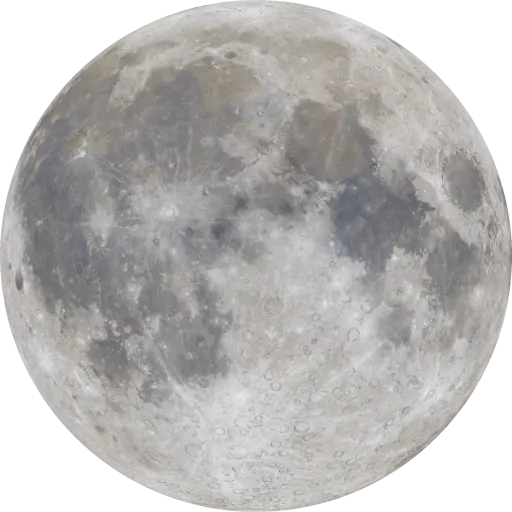
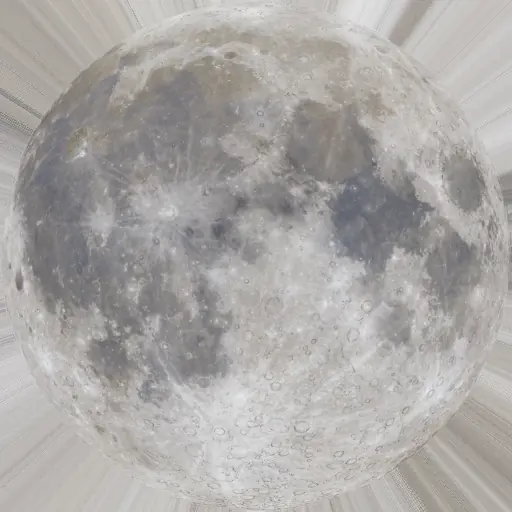
perf(shell): keep the page in two round trips on Lighthouse's mobile run
The first build of the time zone guess grew the page to 43.3 KB gzipped,
past the size Lighthouse's simulated TCP slow start fetches in two round
trips (about 43.8 KB on the wire); the third cost about 200 ms of first
paint and two points on mobile. Three savings with nothing visible bring
it to 40.9 KB:

- The flat Moon's photograph is re-encoded from the source maps at WebP's
  most thorough setting and without its alpha channel; MoonDisc cuts the
  disc's edge with a clip path instead. Identical to the eye: under one
  level in 255 on average.
- index.html's comments are stripped from the build.
- The time zone table keeps only the old names browsers report (19, the
  CLDR names Chrome and Safari use), not every backward link.

CI now holds the page under 41.4 KB gzipped.

diff --git a/src/shell/zones.js b/src/shell/zones.js
@@ -1,4 +1,4 @@
 // Generated by scripts/zones/build.mjs from the IANA Time Zone Database, release
 // 2026e (zone.tab and backward). Don't edit; the format is described there and
 // read by src/shell/guessPlace.js.
-export const ZONES = "2166136263#CD=DR Congo;CG=Congo;GS=South Georgia;HK=Hong Kong;MM=Myanmar;MO=Macao;PS=Palestine#AI8gJ0AR;44NG8zCA;3PF1SKTGLomé;0I~2wRio Branco;9X5nH3CL;9LGPOTCV;i1~1xKanton;OS~15Brisbane;BmHiBWMXMazatlán;6jMVWSBY;1y~35Broken Hill;6RGuG8JM;DTH5FQKY;4dDUN4BR;OaCCG6PE;9hFPQ4SL;1I~5KKyiv;LJJDUCLY;7cE-JWSR;AlHngGBD;1NINg9BT;6IKxU5SM;AcIPfTNP;Gy~0V;2UErk5BN;2zLOCIUS;3oErJzGF;4nFlIXTT;6I~37Iqaluit;8NKxV0BA;0d~18Nuuk;7SKUWgTR;7k9UHiAR;4L9rB2CLEaster Island;3uIyl7CN;0qMPRAIE;5bJTcyAF;I3HP3TUS;2WCiUCAO;AXLXTVDEBüsingen;0U6yGtCL;30~0YShanghai;6G~4_;0_GihAMM;3IMOc4KZ;329uHyARTucumán;2xJ1BVMXCiudad Juárez;8XGzHDDO;9zJJXpSY;DpE7TBSTSão Tomé;0u~33;0FMqgeRU;4vCllmTL;20M7S7GB;KmG7IqBB;0qMgdcRU;4iI_XXPS;SKA0XEMZ;E0EmV2CF;5m~2jLongyearbyen;3SGHEWHN;28MGSvNL;82A97pPN;4qO56MCA;A_K0bGTM;4k~0rLondon;8dK7QjPT;1fK5EVUS;4bGwIHAI;5s9nq2AU;ItDLapSCMahé;9kQ4PDGL;FgO6K3GL;CKLagTMN;Qp5_J6FK;3RMDjtRU;2lApapRE;6vI6CvMX;0W~1pToronto;903jjPAQ;Gw~0hYangon;0K~58;3wMdVLRU;6eDiJZBRSantarém;U6~2AAdelaide;3vJhRJES;4f99HRAR;0BMgf5RU;4e~5-Pago Pago;9F7D0YNZ;3POl7FCA;3OBeJNBRCuiabá;1MGzHpPR;hhLTCEUS;N8C4ZCYT;MaH5sAUMWake Island;4cO6OkISReykjavík;75FxPiGW;47Q2HOGLPituffik;A499q_AULord Howe Island;BEL4cNKZ;6LBgWZZM;1kAuJcBR;0Y~3nMcMurdo;1rFzUVTDN’Djamena;5bF5SYBJ;7IGtIKBL;7cH_l7TW;5sLKZfRU;4wMOZ-RU;0b~6jKnox;8C9-WWZA;47LZirMN;0ZBIW_ZW;0uJfaAIR;H7KvFkCA;2-97mHAU;LJ~1ZLord Howe Island;1rDsKZBRBelém;4bLEUeHR;6GEvRWCI;UY~4wCórdoba;5rB7ZZMG;N0De1JKI;1lKHBkUS;5LAwb7MU;5gL4VLRS;HeLRaFKZ;K1P5OiGL;4c~10Ashgabat;37Bw1JWS;5oMMqxRU;LJ~3-;5AKwfqCNÜrümqi;0r6Md6TF;6HL3ICCA;6GGvPfMR;1BJyl-KR;Jy8dnoAU;1vD6iqID;UO~5tAsmara;K9KbZ8GE;CmLQWeMDChișinău;4a~25Ürümqi;1iBcXcMW;F2GlIUAG;DUKMZ5AM;04KreAKZ;0RKXczUZ;ARFuYuDJ;06GhIQMS;1D~6-Tijuana;ALEN3ZKI;1AFUFjPA;CM~5vSydney;gZ~2_;AD8tHnAR;GkK7ETUS;ILGDECSV;2mFUYBET;Bd60HKAR;5EMB0XUS;8P3fo0AQDumont d’Urville;GPLRCJUS;3OK7ErUS;K0CbrASB;RK8JtSNZ;2zEKjNMY;Q5MvfQRU;6N~2sHobart;E9Abs9NCNouméa;4tD0YHTZ;4jAPKsBRSão Paulo;1yQGUeSJ;0d3WbzAQ;108xHOAR;1o8dJMUY;IAKdU5IT;Z6GTIYDM;3j5bMRGS;3H~1mUlaanbaatar;FXKu9-US;0N7Np9AU;3jK0VrGR;D_DtXuKE;9QIiBqMX;4HCWHYBR;1hEHiNSG;BCJjRJGI;5sFDn9PW;BgMFiRRU;9VHYjtMOMacao;55KORZES;1p3IYKAQ;B_GGIcLC;2e9dHsAR;2wJqSdDZ;1-95oFAU;QLJIAdUS;8LO1HRCA;291qirAQ;0tC2M7BR;2uGEhrTH;A-JqTkTN;AeCyKcBRAraguaína;KXG4ZCYE;0yKqmlRU;0S3MeKAQ;ItGMl2PH;7JLIInCA;6HBVHVBO;HRKhFAUS;0WMh7aUS;2JLjSVFR;33G8IaVC;5CMSAPCA;IGF9edLK;C0InX1EG;1YCAhHCC;4PLxb4KZ;1RLiDqCA;LX~3SAtikokan;2gFmipVNHo Chi Minh City;7JKvTIMC;7nEPZESO;CiErX4SS;PMLcUhAT;ESF-HMCWCuraçao;7VMzbcRU;8KL7ESUS;1gK4EfUS;1IOCttRU;C3LHI0CA;JN~2EChișinău;5U~5KKyiv;0VGcIXGP;AkGNPQSN;28HhFGCU;6LClu8TV;0dKiV9ME;HFEoGZCOBogotá;1M1wsAAQ;8PGBomGU;C0Mo9MCA;3HKVEcUS;csITPkESCanary Islands;EcH_G3BS;Mp~2XAdak;7dLn8vCA;5hNZ71CA;3WF-EfNI;5C~74Faroe;0hFAqsFM;2yDnWrRW;5kAIHxAR;1YGnILKN;KS~0KThimphu;1QLl9xCA;1vLmRpJE;3I3yI7AQ;8zEkddMV;DACqMhBR;EfCc1OTK;0n~3yPohnpei;EBD1HDBREirunepé;8dHzcdPK;cUGBPYGM;6QM8ZKRU;0vGvIISXLower Prince’s Quarter;HwIdAoMX;2UGuiALA;BcAn0mTO;kONLUzSE;8sDHkoID;13GyH_VISt. Thomas;FfBbRFSH;9TKRGaUS;6R~0YShanghai;10G0RvBF;4_~1pToronto;2WMoY0RU;2bOtBjCA;4rF3QSLR;LRMZZiRU;7mPlDKCA;0N~4HMakassar;2aJ7I0BM;HxCZMZBRMaceió;5cCbp8PG;0REyS6GH;AA5Zq-AUMacquarie Island;2vNe4jUS;1cHZj-HK;5LAvpQAU;3x~7UBamako;2uKXVEAL;6b~33Catamarca;IdEvrcFM;5sDho7ID;8J~5PDarwin;0q~73Jerusalem;1VAm3ACK;5iAT73PFGambier Islands;FqI1anAE;8VK3EkUS;6tN06_US;BYHbfyIN;1vGMIbMQ;3NKeVUMK;5FI_XdPS;27MQfERU;DxE8TdGA;AhFdE_CR;27JqEuUS;3T9AI6ARCórdoba;51H6CfMX;4Q9zW_SZ;4w~6EChuuk;BO~2l;5LJaXMCY;35~5vSydney;2eM6JDCA;4lBFu0FJ;Hy~1pToronto;C5FZP_GN;0o~3NEdmonton;1xLqT6LU;8FBL4mPF;2bKIEgUS;6FICa2BH;96EItAKI;47~1yDenver;8J~4wCórdoba;1JLVV7HU;7kGzGrHT;2W~1mUlaanbaatar;5HK6cuTJ;5eO92IUS;2U~00;7PKdU5VA;5dLyWvUA;14~58Indianapolis;7bGMD_GT;2uJIZ4IQ;J9B61bNU;2SC7maAU;1HFjHhVE;Jv9TWRLS;JDFzIVGD;P9M4aAKZ;5k~5pMelbourne;B7~4oKolkata;I5FuiXKH;5mL1Z_KZ;1fEgTWGQ;EaE4jDID;AQLhZ4RU;Ca~5vSydney;O8AEWBBW;5OLcUpSK;IIOAoWRU;0_5WHTAR;6ZDbImBR;2QLyBoCA;5eGpEMBZ;7tDxE8ECGalápagos;9KJNXhLB;3EB_0cWF;Co~0MKathmandu;3RDYWkBI;LqNRTqNO;9K8AooAU;4MCxdSIO;F0FVsHMH;1wLpRlGG;10GTYDER;5U~6EChuuk;I_8npmAU;6aNtnKRU;9qJzO7PT;0MBJsSVU;0SLQoRRU;3wBr1TAS;CYCSifCX;XJKdESUS;2dJP9gUS;5IJhUPMT;E8JZXSCY;1DMPIiCA;ClCg6LPFMarquesas Islands;1qLSTdLI;1U~70Perth;0-HmbIOM;25LxBICA;KqCiI9BR;DoMFVQPL;2mCFYvKM;0wKjSNAD;9lFEpsFM;36MYRRIM;58E7XCUG;2lEWIfBR;8wIfZeKW;PSHNEaMXCancún;22L6XTUA;2KKOZxAZ;ChK0EaUS;08DkFgEC;4rKndoKG;6CL0WDRO;1bJfnzJP;78M-VvLV;GAIYBZMX;21~3UHo Chi Minh City;HgIKQ4EHLaayoune;BU~4ISt. Thomas;5xNmmPRU;0SLRJLPM;2nFCsuMH;1gOdq9RU;6nG1HCAW;HNLUTTCHZürich;34LHUPSI;79MUflRU;BQNN6JUS;7Q~0JDhaka;ErKAloKP;1K3WHVAQ;DQ~6-Tijuana;BQKXEcUS;2xNTVGAX;3_F-HTBQ;6lJAPVPT;09Eai1MY;F28sH5CL;BhMHUEDE;BlNUW2FI;ARNEZvRU;0nGBSTNE;2k~5KKyiv;4MNB78US;2_~7DWinnipeg;0PKHcaUZ;01A7J7PYAsunción;D0IU0QUMMidway Atoll;14LWJvCASt. John’s;1LJ99sMX;AONMW0EE;8C95kFAU;4tI5CTMX;HRGzI2VG;14J2XeIL;0hNmR4FO;2bDVM7BR;7vJ4XlJO;41~0YShanghai;imI1aBQA;AwNOpiRU;B3MdW5LT;AOF8J2GY;DwAYUpNA;6KLtCzCA;8HD6qSPG;IFCFWRCD;2CHKBiMXBahía de Banderas;1C2qSXAQ;5PGSowMP;7nJLQyMA;4sNuDlCA;18DPUXCG;JqEjTfCM;1xM0SpBE;FiDPUXCD;EmACHwAR;WbHME8MXMérida;H8~4m;8iLvUOCZ;2vKlVnBG;7MG3QuML;58D_sDNR;0CGWXDSD;3KMnU6DK;9z~2sHobart;Az~0bHonolulu;57HwZRSA;8eF5SgNG;1C9YsONF;7cGvIHMF;U5HRH1TC";
+export const ZONES = "2166136266#CD=DR Congo;CG=Congo;GS=South Georgia;HK=Hong Kong;MM=Myanmar;MO=Macao;PS=Palestine#AsJhRJES;6GGuiALA;FNKXVEAL;0dP5OiGL;JGM-VvLV;975_J6FK;L_DPUXCG;OxO1HRCA;0EGzHpPR;9OKOZxAZ;ClQ4PDGL;1LMPRAIE;44~3O;3kK6cuTJ;26MGSvNL;50GMIbMQ;7VD1HDBREirunepé;1zMdVLRU;B_NN6JUS;5jMoY0RU;45F3QSLR;NNNOpiRU;6CJ2XeIL;0WKeVUMK;QyInX1EG;1ZOAoWRU;AtJ1BVMXCiudad Juárez;7y~5_Kyiv;F5EHiNSG;FQMYRRIM;295Zq-AUMacquarie Island;9AKlVnBG;0NMdW5LT;UjMOc4KZ;5SDho7ID;L9J7I0BM;MpG3QuML;1AFjHhVE;5zLIInCA;P1HmbIOM;7tB7ZZMG;4fCFYvKM;3DEgTWGQ;4xKndoKG;a03yI7AQ;5GLiDqCA;JAG4ZCYE;2SK4EfUS;3kFUYBET;FbLVV7HU;6HKHBkUS;3DK7ETUS;DU3jjPAQ;3nFPQ4SL;2MLvUOCZ;6d7D0YNZ;3oKVEcUS;2LF-EfNI;6KCiUCAO;25NB78US;9_FVsHMH;3vHME8MXMérida;3HH_l7TW;2k5WHTAR;0dLhZ4RU;2lNRTqNO;IWAbs9NCNouméa;M7JP9gUS;8cAn0mTO;6TLUTTCHZürich;5QL4cNKZ;HfBeJNBRCuiabá;BZL4VLRS;28IiBqMX;0zL6XTUA;0DKvFkCA;25KwfqCNÜrümqi;8WDYWkBI;NJJhUPMT;36KdESUS;duLxb4KZ;iSHP3TUS;R8I1aBQA;QPApapRE;M7CxdSIO;45GvPfMR;2N8JtSNZ;2vC4ZCYT;AR~4bPohnpei;FfOtBjCA;2FHhFGCU;0a8dJMUY;KsLZirMN;0DMPIiCA;6LM0SpBE;0k1wsAAQ;2gJZXSCY;FBG7IqBB;AF~5mKolkata;1dLOCIUS;2SEItAKI;7N~0jAtikokan;Ls~44Yangon;TiLHUPSI;03MqgeRU;1sGcIXGP;TCGMl2PH;UsNmR4FO;0mAwb7MU;1C9rB2CLEaster Island;6-EkddMV;RLCiI9BR;2s8npmAU;D6MzbcRU;B6FUFjPA;6rGTYDER;F1Q2HOGLPituffik;8QJIZ4IQ;3TCAhHCC;8cJqEuUS;4dKXczUZ;7CGvIHMF;2dKdU5VA;30LEUeHR;1IITPkESCanary Islands;2lL1Z_KZ;4SF5SgNG;0zMgdcRU;92KMZ5AM;D-IU0QUMMidway Atoll;3DJjRJGI;4WHKBiMXBahía de Banderas;Cf95oFAU;1_EmV2CF;1H~6hKanton;BS~4i;G-G8IaVC;C-AIHxAR;AoH5FQKY;7DKxU5SM;4YH6CfMX;56Cg6LPFMarquesas Islands;ACK7QjPT;3wAT73PFGambier Islands;EBGBSTNE;4hH5sAUMWake Island;IrCyKcBRAraguaína;4cE4jDID;WHFuYuDJ;6cOdq9RU;IHBVHVBO;1bKqmlRU;DO3WbzAQ;3HLtCzCA;LkClu8TV;2PKreAKZ;4nDkFgEC;42MDjtRU;0FKbZ8GE;3sNe4jUS;B4DiJZBRSantarém;DjNuDlCA;BEK3EkUS;9UE-JWSR;0XI6CvMX;TmGvIISXLower Prince’s Quarter;04F5SYBJ;H-95kFAU;aPKvTIMC;609nq2AU;1UFCsuMH;HfJ99sMX;55GnILKN;SOMHUEDE;xtKORZES;LgQGUeSJ;6dI_XXPS;D9M6JDCA;3kNLUzSE;1fMQfERU;4XIPfTNP;FkL3ICCA;0sDVM7BR;0WLpRlGG;5qA97pPN;AZK0EaUS;2-KxV0BA;3NFdE_CR;04GGIcLC;4v60HKAR;8WNmmPRU;32Cc1OTK;BHCqMhBR;B4F-HMCWCuraçao;0iFmipVNHo Chi Minh City;85GHEWHN;81HiBWMXMazatlán;L4L7ESUS;0FFzUVTDN’Djamena;0ZMFVQPL;5WGwIHAI;FXE7TBSTSão Tomé;NlLRCJUS;1sMUflRU;0iEKjNMY;8OHYjtMOMacao;LaNG8zCA;RMGuG8JM;66~32Ho Chi Minh City;2HFlIXTT;Bq8AooAU;6FEvrcFM;1xHzcdPK;2hLcUhAT;4xGzGrHT;5d3WHVAQ;4BKIEgUS;LrGzHDDO;8xK0bGTM;LuBcXcMW;1XE8TdGA;2sBIW_ZW;AwO6OkISReykjavík;IVF9edLK;4sJIAdUS;8aHRH1TC;1gG0RvBF;7PMvfQRU;3UJDUCLY;8ULmRpJE;E7~1hFaroe;84DtXuKE;CnGlIUAG;3IGDECSV;BFLRaFKZ;0kD_sDNR;73M8ZKRU;6G3fo0AQDumont d’Urville;3k9TWRLS;0IA0XEMZ;0WGSowMP;84H_G3BS;1KLcUpSK;0mCSifCX;1U~1pAsmara;2xB61bNU;NdM4aAKZ;IcLyBoCA;2LG1HCAW;6XA7J7PYAsunción;64Am3ACK;6gMSAPCA;24D6qSPG;M0ACHwAR;4cBL4mPF;JBF1SKTGLomé;7hGpEMBZ;57HwZRSA;1MMVWSBY;415bMRGS;TFGihAMM;fiHngGBD;91MZZiRU;5LO56MCA;1m9-WWZA;8FKdU5IT;03JJXpSY;3PMMqxRU;3cDUN4BR;4-FxPiGW;1TIKQ4EHLaayoune;26~6M;UoNtnKRU;I9LSTdLI;1QAuJcBR;IL97mHAU;0-GNPQSN;1jErJzGF;25GzI2VG;B8Ll9xCA;4MErk5BN;FHJAPVPT;KeI1anAE;9LF8J2GY;I5CFWRCD;0COl7FCA;9oGTIYDM;3e6Md6TF;1tMB0XUS;FsKUWgTR;4hJqTkTN;6AEyS6GH;7dICa2BH;4FFAqsFM;5WKjSNAD;OeAYUpNA;4UNEZvRU;B68sH5CL;AyErX4SS;5-EvRWCI;1_9dHsAR;H2EPZESO;5hBFu0FJ;3mFEpsFM;4TGtIKBL;3dAvpQAU;3b9YsONF;1yJyl-KR;0iIYBZMX;DUL0WDRO;0FJTcyAF;1tCZMZBRMaceió;50Br1TAS;0UF-HTBQ;5CEWIfBR;38GMD_GT;CCOCttRU;23JqSdDZ;0jO92IUS;0dKRGaUS;GYBJsSVU;FDD6iqID;3PNUW2FI;6B~5B;7UIdAoMX;7LD0YHTZ;Fl~29;DXMo9MCA;EABw1JWS;NYNMW0EE;3WLn8vCA;708gJ0AR;GzC7maAU;LyLKZfRU;6eNZ71CA;105nH3CL;8bC2M7BR;0SKiV9ME;6HKHcaUZ;6aDPUXCD;NS9AI6ARCórdoba;F5CllmTL;0yFZP_GN;4zCbp8PG;0EDsKZBRBelém;NfCbrASB;AQE7XCUG;PvGBPYGM;C0K5EVUS;NfAEWBBW;DNLagTMN;12GPOTCV;373IYKAQ;7B9UHiAR;8eEai1MY;3xJfnzJP;3r~5KCórdoba;BVINg9BT;LbO6K3GL;8FN06_US;9O8dnoAU;0TI5CTMX;BKDnWrRW;F599q_AULord Howe Island;OcGEhrTH;LqLxBICA;dMB_0cWF;36~4lChuuk;2eHbfyIN;PTDbImBR;0hJfaAIR;6HLjSVFR;2LBbRFSH;5K~2Y;RZFDn9PW;PSLWJvCASt. John’s;4zAPKsBRSão Paulo;888tHnAR;IKMFiRRU;0nM7S7GB;MN7Np9AU;75DHkoID;2lEN3ZKI;0eLyWvUA;8AGWXDSD;5dFuiXKH;4b~5cNuuk;2pHNEaMXCancún;2oMh7aUS;562qSXAQ;3nFzIVGD;EpDLapSCMahé;9y9uHyARTucumán;0-LRJLPM;0GJLQyMA;Gn99HRAR;CXLTCEUS;1SLHI0CA;2tMnU6DK;JQPlDKCA;4_Mgf5RU;7pHZj-HK;3JK0VrGR;0tKu9-US;1aGhIQMS;JoKhFAUS;EJ8xHOAR;fPJaXMCY;XFKAloKP;1dLQoRRU;5dGBomGU;2vDxE8ECGalápagos;6CEjTfCM;59LQWeMDChișinău;2aGyH_VISt. Thomas;LVJzO7PT;9c6yGtCL;9BBgWZZM;6BLXTVDEBüsingen;2ILqT6LU;851qirAQ;6vNTVGAX;8TKXEcUS;2cI_XdPS;Ek~2qKathmandu;4uCCG6PE;7DJNXhLB;EnDe1JKI;6H9zW_SZ;UeJ4XlJO;HNK7ErUS;GeIfZeKW;40Iyl7CN;ajMOZ-RU;5d3MeKAQ;5-EoGZCOBogotá;2aCWHYBR";

diff --git a/scripts/check-bundle.js b/scripts/check-bundle.js
@@ -26,6 +26,11 @@ const DIST = 'dist';
 
 const ENTRY_GZIP_BUDGET_KB = 90;
 const INLINE_GZIP_BUDGET_KB = 7;
+// Lighthouse's mobile run simulates TCP slow start: the page arrives in two round
+// trips only while it is under about 43.8 KB on the wire, and a third costs about
+// 150 ms of first paint, two points of score. Vercel's compressed page has measured
+// about 1.4 KB more than gzip -9 here, with its headers, so this holds a little under.
+const PAGE_GZIP_BUDGET_KB = 41.4;
 const THREE_CHUNK = /three-vendor-[\w-]+\.js/;
 
 const failures = [];
@@ -99,8 +104,9 @@ if (!/<div id="root"><[^>]/.test(html) || !html.includes('class="hero-phase-name
 }
 
 // 6. Every inline script is allowed by its hash in the CSP, and together they stay
-//    small: they arrive with the HTML, ahead of the first paint. Most of it is the
-//    time zone table a first visit's place is guessed from (src/shell/zones.js).
+//    small, as does the page: everything in it arrives ahead of the first paint.
+//    Most of the script is the time zone table a first visit's place is guessed
+//    from (src/shell/zones.js); most of the page is the flat Moon's photograph.
 const csp = html.match(/http-equiv="Content-Security-Policy" content="([^"]+)"/)?.[1] ?? '';
 let inlineBytes = 0;
 for (const [, body] of html.matchAll(/<script(?![^>]*\bsrc=)[^>]*>([\s\S]*?)<\/script>/g)) {
@@ -111,10 +117,14 @@ for (const [, body] of html.matchAll(/<script(?![^>]*\bsrc=)[^>]*>([\s\S]*?)<\/s
   }
 }
 const inlineKb = inlineBytes / 1024;
-notes.push(`inline first-paint script: ${inlineKb.toFixed(1)} KB gzip (budget ${INLINE_GZIP_BUDGET_KB} KB); ` +
-  `the whole page ${(zlib.gzipSync(html, { level: 9 }).length / 1024).toFixed(1)} KB gzip`);
+const pageKb = zlib.gzipSync(html, { level: 9 }).length / 1024;
+notes.push(`inline first-paint script: ${inlineKb.toFixed(1)} KB gzip (budget ${INLINE_GZIP_BUDGET_KB} KB)`);
+notes.push(`the page: ${pageKb.toFixed(1)} KB gzip (budget ${PAGE_GZIP_BUDGET_KB} KB)`);
 if (inlineKb > INLINE_GZIP_BUDGET_KB) {
   failures.push(`the inline first-paint script is ${inlineKb.toFixed(1)} KB gzip, over the ${INLINE_GZIP_BUDGET_KB} KB budget`);
+}
+if (pageKb > PAGE_GZIP_BUDGET_KB) {
+  failures.push(`the page is ${pageKb.toFixed(1)} KB gzip, over the ${PAGE_GZIP_BUDGET_KB} KB budget: Lighthouse's mobile run would fetch it in three round trips`);
 }
 
 for (const line of notes) console.log(`  ${line}`);

diff --git a/src/components/MoonDisc.jsx b/src/components/MoonDisc.jsx
@@ -1,8 +1,8 @@
 import React from 'react';
 import { litPath, shadePhases, earthshine, SHADE_STEPS } from '../utils/moonPath';
 
-// A photograph of the near side (public/moon-disc.webp: moon_1024.jpg projected
-// orthographically, north up, 360px WebP) with the phase cut out of it. It is the
+// A photograph of the near side (public/moon-disc.webp: the colour map projected
+// orthographically, north up, 512px WebP) with the phase cut out of it. It is the
 // Moon of the first frame, the stand-in while the 3D Moon loads, and the Moon itself
 // where WebGL is missing. Regenerate it whenever the Moon texture changes.
 //
@@ -54,13 +54,18 @@ const MoonDisc = ({ view: { litPhase, limbAngle, poleAngle } }) => (
           <feFuncB type="gamma" amplitude="0.405" exponent="2.75" offset="0.0446" />
         </feComponentTransfer>
       </filter>
+      {/* The photograph has no transparency of its own (scripts/textures/build.mjs),
+          which keeps the page lighter: the disc's edge is cut here */}
+      <clipPath id="moon-disc-edge">
+        <circle cx={SIZE / 2} cy={SIZE / 2} r={SIZE / 2} />
+      </clipPath>
     </defs>
     {/* The Moon is solid: its night side hides the stars behind it */}
     <circle cx={SIZE / 2} cy={SIZE / 2} r={SIZE / 2 - 0.5} fill="#000104" />
     {/* The one photograph, drawn twice: once more through the earthshine filter
         for the night side, then as itself through the day side's mask. <use>
         draws it again without putting the inlined image in the page twice. */}
-    <use href="#moon-disc-photo" filter="url(#moon-disc-earthshine)" opacity={earthshine(litPhase).toFixed(4)} />
+    <use href="#moon-disc-photo" filter="url(#moon-disc-earthshine)" clipPath="url(#moon-disc-edge)" opacity={earthshine(litPhase).toFixed(4)} />
     <g mask="url(#moon-disc-phase)">
       {/* Decoded with the frame that first shows it, not after: left to decode on
           its own, the first frame painted without it and the photo waited behind

diff --git a/vite.config.js b/vite.config.js
@@ -115,7 +115,12 @@ const lunaShell = () => {
         const fonts = Object.keys(ctx.bundle ?? {})
           .filter((file) => /cormorant-garamond-latin-(400|600)-normal-[\w-]+\.woff2$/.test(file))
           .map((file) => `<link rel="preload" as="font" type="font/woff2" href="${config.base}${file}" crossorigin>`)
-        return html.replace('</head>', `  ${fonts.join('\n    ')}\n  </head>`)
+        html = html.replace('</head>', `  ${fonts.join('\n    ')}\n  </head>`)
+
+        // index.html's comments are for whoever reads the source, not for every
+        // visitor to download (React's empty separators stay). The page has to stay
+        // under about 43 KB for Lighthouse's mobile run to fetch it in two round trips.
+        return html.replace(/<!--(?!\s*-->)[\s\S]*?-->/g, '')
       }
     }
   }

diff --git a/README.md b/README.md
@@ -345,11 +345,11 @@ turn and the suite must fail. All eight are caught.
 npm run build && npm run check:bundle
 ```
 
-The page paints before any JavaScript arrives. The build renders the app's first frame to HTML with the stylesheet inlined, and an inline script brings its date, phase and flat Moon up to today before the first paint, at the place the visitor will see: a first visit's place is guessed there from the device's time zone, so the first frame already shows that place's date and that place's Moon. The script is 6.6 KB gzipped, most of it the time zone table, packed by `scripts/zones/build.mjs`. The live app then replaces it, and the 3D Moon fades in over the flat one once its texture is drawn. There is no loading screen.
+The page paints before any JavaScript arrives. The build renders the app's first frame to HTML with the stylesheet inlined, and an inline script brings its date, phase and flat Moon up to today before the first paint, at the place the visitor will see: a first visit's place is guessed there from the device's time zone, so the first frame already shows that place's date and that place's Moon. The script is 6.2 KB gzipped, most of it the time zone table, packed by `scripts/zones/build.mjs`. The whole page is 41 KB gzipped, held there because Lighthouse's mobile run fetches a page in two round trips only while it stays under about 43 KB. The live app then replaces it, and the 3D Moon fades in over the flat one once its texture is drawn. There is no loading screen.
 
 Three.js is most of Luna's JavaScript, but only the 3D Moon needs it. It loads after the first paint inside the scene's worker, where it parses, compiles and draws without touching the main thread; browsers whose workers can't draw WebGL load it on the main thread instead. Deep Dive's chapters, the keyboard shortcuts and the privacy notice also load after first paint. The entry chunk is **85 KB gzipped**, down from 354 KB.
 
-CI fails the build if that chunk crosses 90 KB, if the inline script crosses 7 KB, if the prerendered first frame is missing, if the content security policy doesn't allow the inline script by its hash, if the 3D engine is preloaded by the document, or if the entry imports it statically. That last case is not hypothetical: a chunking change once pulled React into the 3D chunk, which made the entry look *smaller* while forcing all of Three.js back onto the critical path.
+CI fails the build if that chunk crosses 90 KB, if the page crosses 41.4 KB or its inline script 7 KB, if the prerendered first frame is missing, if the content security policy doesn't allow the inline script by its hash, if the 3D engine is preloaded by the document, or if the entry imports it statically. That last case is not hypothetical: a chunking change once pulled React into the 3D chunk, which made the entry look *smaller* while forcing all of Three.js back onto the critical path.
 
 If WebGL is unavailable or the scene fails to download, the 2D Moon stays, drawn at the correct phase and tilt, and everything else keeps working.
 

diff --git a/plans/PREMIUM-REDESIGN-DECISIONS.md b/plans/PREMIUM-REDESIGN-DECISIONS.md
@@ -622,8 +622,9 @@ when the page opens.
     the city the zone is named after, with its country (Asia/Colombo is Colombo, Sri
     Lanka), from tzdata's zone.tab. zone.tab rather than zone1970.tab, which merges zones
     across borders: there Europe/Stockholm is Berlin's zone. Old names browsers still
-    report are linked to the current ones (Chrome and Safari say Asia/Calcutta for
-    Kolkata). Zones that name no place (UTC, Etc/GMT+5) keep Greenwich.
+    report are linked to the current ones: every browser turns a link into its zone's
+    own name, but Chrome and Safari use CLDR's, which keeps 19 old ones (Asia/Calcutta
+    for Kolkata). Zones that name no place (UTC, Etc/GMT+5) keep Greenwich.
   - It runs in the inline script, before the first paint, so the first frame already shows
     that place's name, its date (Tokyo's day turns hours before Greenwich's) and its
     Moon, turned for its sky; the app then starts from the same guess. In headless Chrome
@@ -631,8 +632,19 @@ when the page opens.
     a degree.
   - The table is packed for the page (`scripts/zones/build.mjs`, run by hand on a new
     tzdata release): zones are found by a hash of their name, since the place's name comes
-    from the zone name the browser reports. 418 zones and 71 old names in 3.7 KB gzipped.
-    The page grows by 3.7 KB gzipped, to 43.3 KB; CI holds the inline script under 7 KB.
+    from the zone name the browser reports. 418 zones and 19 old names in 3.3 KB gzipped.
+  - The page budget. The first build grew the page to 43.3 KB gzipped, and Lighthouse's
+    mobile run fell from 92 to 90: its simulated TCP slow start fetches a page in two
+    round trips only while it is under about 43.8 KB on the wire (Vercel's brotli plus
+    headers came to 45.8 KB), and the third cost about 200 ms of first paint. Three
+    savings with nothing visible brought it back to 40.9 KB: the flat Moon's photograph
+    re-encoded at WebP's most thorough setting and without its alpha channel, the disc's
+    edge now cut by a clip path (identical to the eye; under one level in 255 on
+    average); index.html's comments stripped from the build; and only the old zone
+    names browsers report. CI now holds the page under 41.4 KB gzipped and the inline
+    script under 7 KB. The rest of the margin is in the stylesheet: Deep Dive's and the
+    dialogs' rules could load with their chunks (about 1.3 KB), for Phase 5's
+    performance pass.
   - The guess is never stored: a device that changes zone gets a new one, and nothing is
     kept that the device didn't choose. It stays out of the address bar too, so a reload
     guesses again rather than taking it for a shared link's place; Share still sends it.
